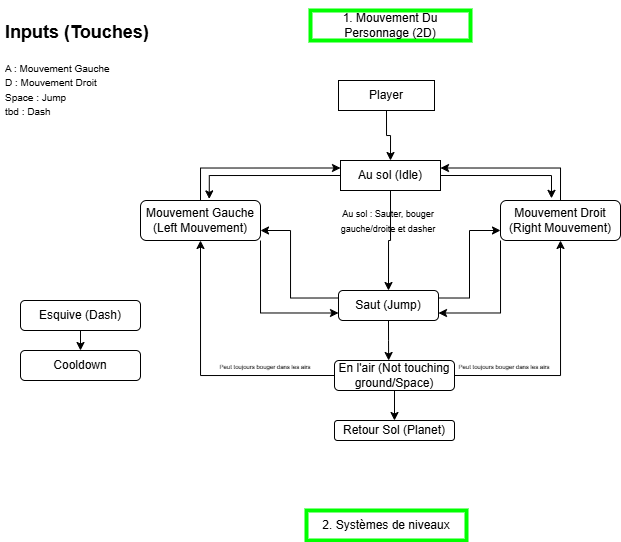
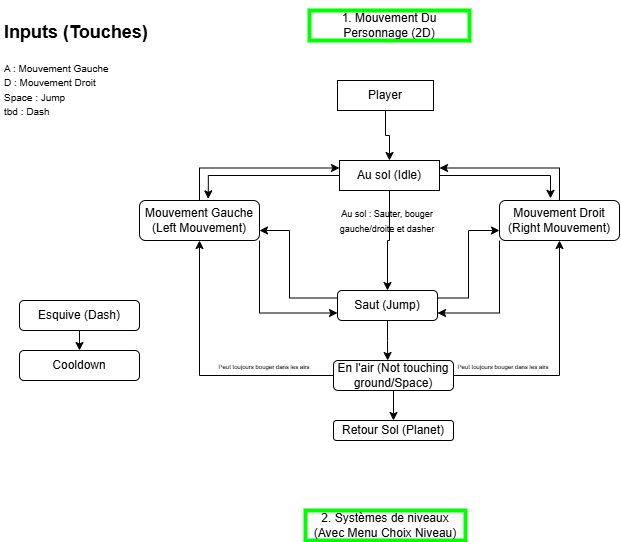
Update UI

diff --git a/main.cpp b/main.cpp
@@ -1900,10 +1900,15 @@ TTF_DrawRendererText(gameStatUIText, leftX + 170.f, statY);
             SDL_FRect expandedPopup = categoryButtonsPopupRect;
             expandedPopup.h += 10.f;
 
-            if (categoryButtonsPopupRect.w > 0 && SDL_PointInRectFloat(&mousePt, &expandedPopup)) {
+            bool bInBuildingCategoryButtons = categoryButtonsPopupRect.w > 0 && SDL_PointInRectFloat(&mousePt, &expandedPopup);
+            SDL_FRect expandedEvolution = categoryEvolutionPopupRect;
+            expandedEvolution.h += 20.f; // cover the gap between evolution popup and building categoriesButtons
+            bool bInBuildingEvolitionButtons = categoryEvolutionPopupRect.w > 0 && SDL_PointInRectFloat(&mousePt, &expandedEvolution);
+            if (bInBuildingCategoryButtons || bInBuildingEvolitionButtons) {
                 hoveredAvailableSlot = 0; // garde le popup ouvert
             } else {
-                categoryButtonsPopupRect = {0.f, 0.f, 0.f, 0.f}; // ferme et reset proprement
+                categoryButtonsPopupRect = {0.f, 0.f, 0.f, 0.f}; // reset the rect
+                categoryEvolutionPopupRect = {0.f,0.f,0.f,0.f};
             }
         }
 
@@ -1927,8 +1932,9 @@ TTF_DrawRendererText(gameStatUIText, leftX + 170.f, statY);
 
             //The rect of the buttons category
             categoryButtonsPopupRect = {buttonStartX, buttonY, totalButtonW, buttonW};
-
-            bool mouseOnEvolutionPopup = categoryEvolutionPopupRect.w > 0 && SDL_PointInRectFloat(&mousePt, &categoryEvolutionPopupRect);
+            SDL_FRect expandedEvolCheck = categoryEvolutionPopupRect;
+            expandedEvolCheck.h += 20.f; // cover the gap that stop the buttons 
+            bool mouseOnEvolutionPopup = categoryEvolutionPopupRect.w > 0 && SDL_PointInRectFloat(&mousePt, &expandedEvolCheck);
             if (!mouseOnEvolutionPopup) {
                 hoveredBuildingCategoryIndex = -1;//reset
                 for (int k = 0; k < 5; k++) {
@@ -3194,7 +3200,9 @@ SDL_AppEvent(void *appstate, SDL_Event *event) {
         popupWithGap.h += 20.f; // couvre le gap de 15px + marge
         bool onPopup = SDL_PointInRectFloat(&pt, &popupWithGap);
         bool onCategoryPopup = app.categoryButtonsPopupRect.w > 0 && SDL_PointInRectFloat(&pt, &app.categoryButtonsPopupRect);
-        bool onEvolutionPopup = app.categoryEvolutionPopupRect.w > 0 && SDL_PointInRectFloat(&pt, &app.categoryEvolutionPopupRect);
+        SDL_FRect expandedEvol = app.categoryEvolutionPopupRect;
+        expandedEvol.h += 20.f;
+        bool onEvolutionPopup = app.categoryEvolutionPopupRect.w > 0 && SDL_PointInRectFloat(&pt, &expandedEvol);
 
         if (!onAnySlot && !onPopup && !onCategoryPopup && !onEvolutionPopup) {
             app.hoveredSlotIndex = -1;